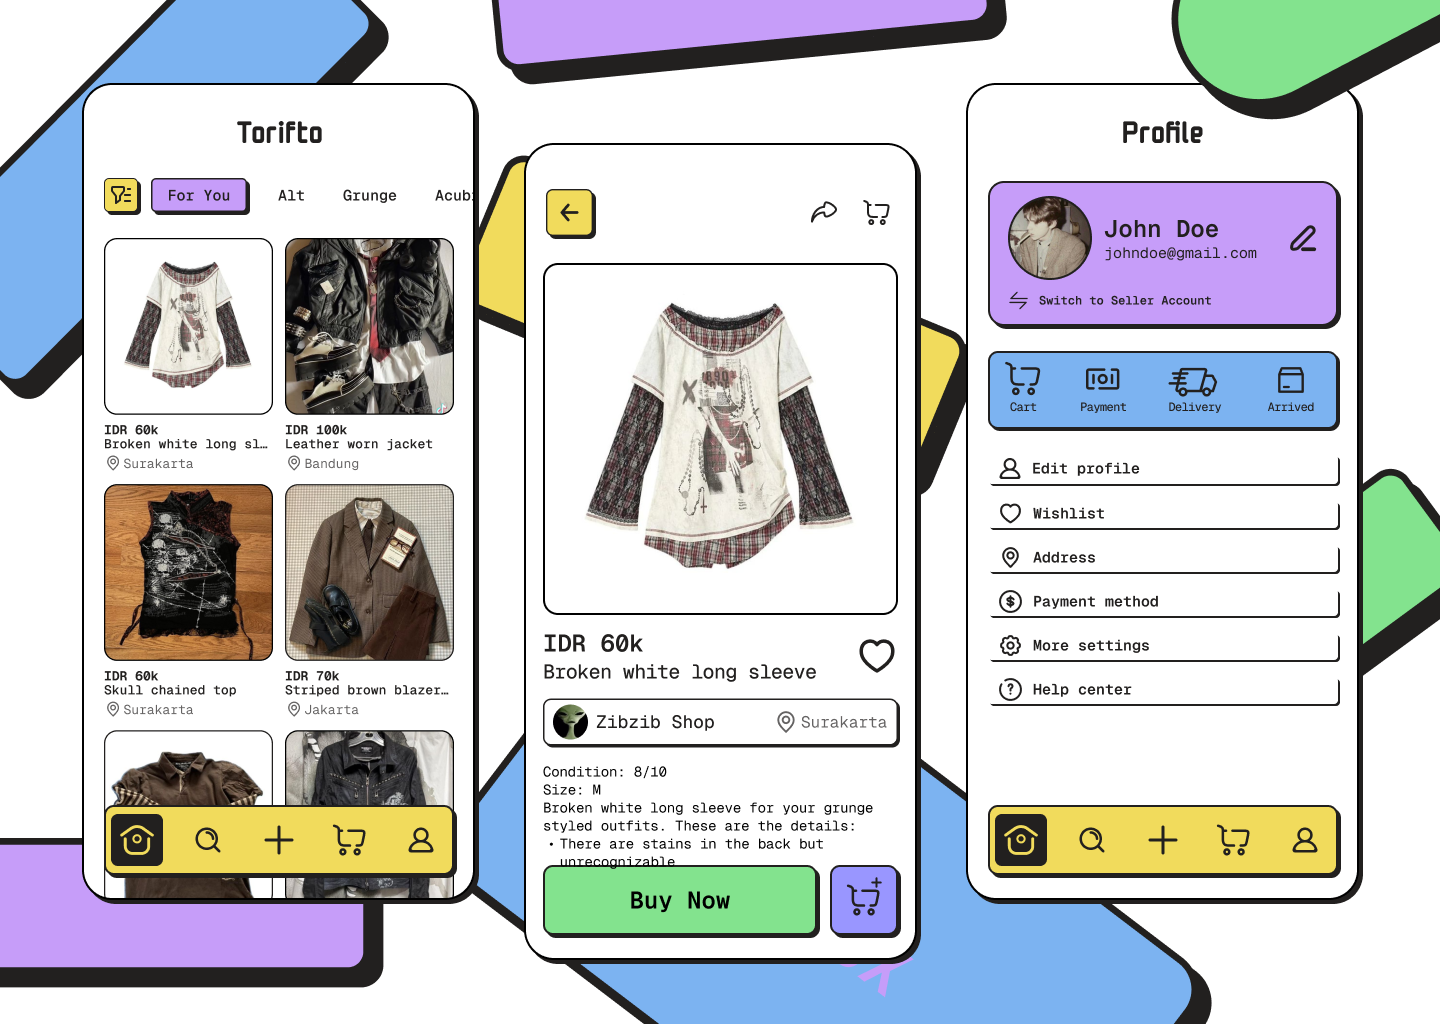
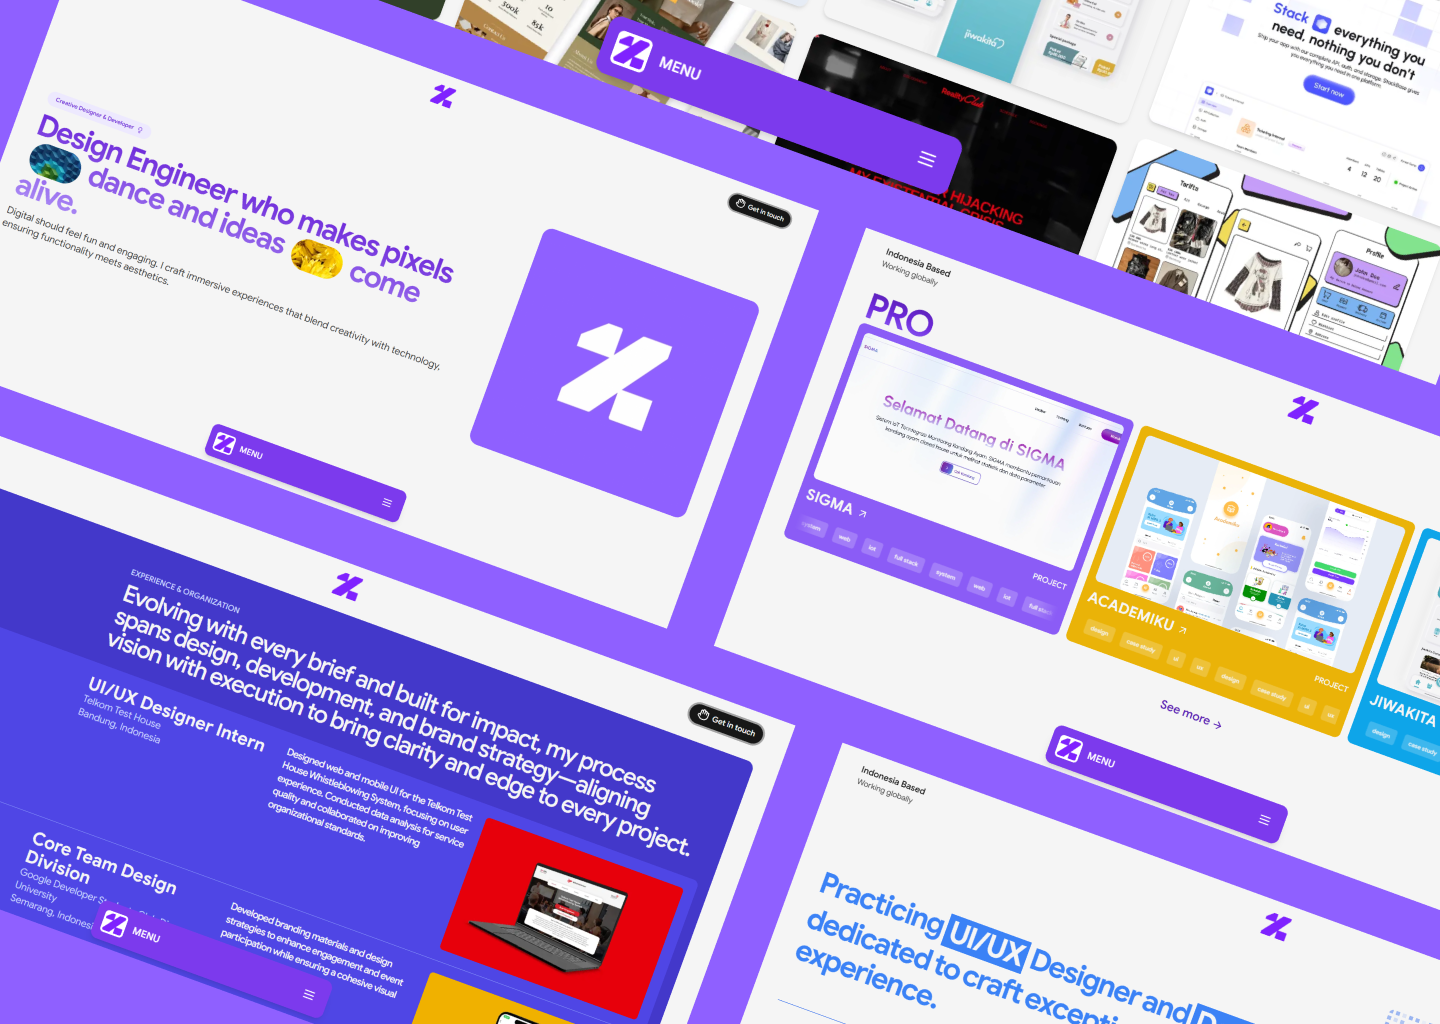
Update hero ui

diff --git a/components/pages/home/description.tsx b/components/pages/home/description.tsx
@@ -9,7 +9,7 @@ const images = [
     { src: "/home/4.png", hidden: true },
     { src: "/home/5.png", hidden: false },
     { src: "/home/6.png", hidden: false },
-    { src: "/home/4.png", hidden: false },
+    { src: "/home/2.png", hidden: false },
     { src: "/home/8.png", hidden: false },
 ];
 
